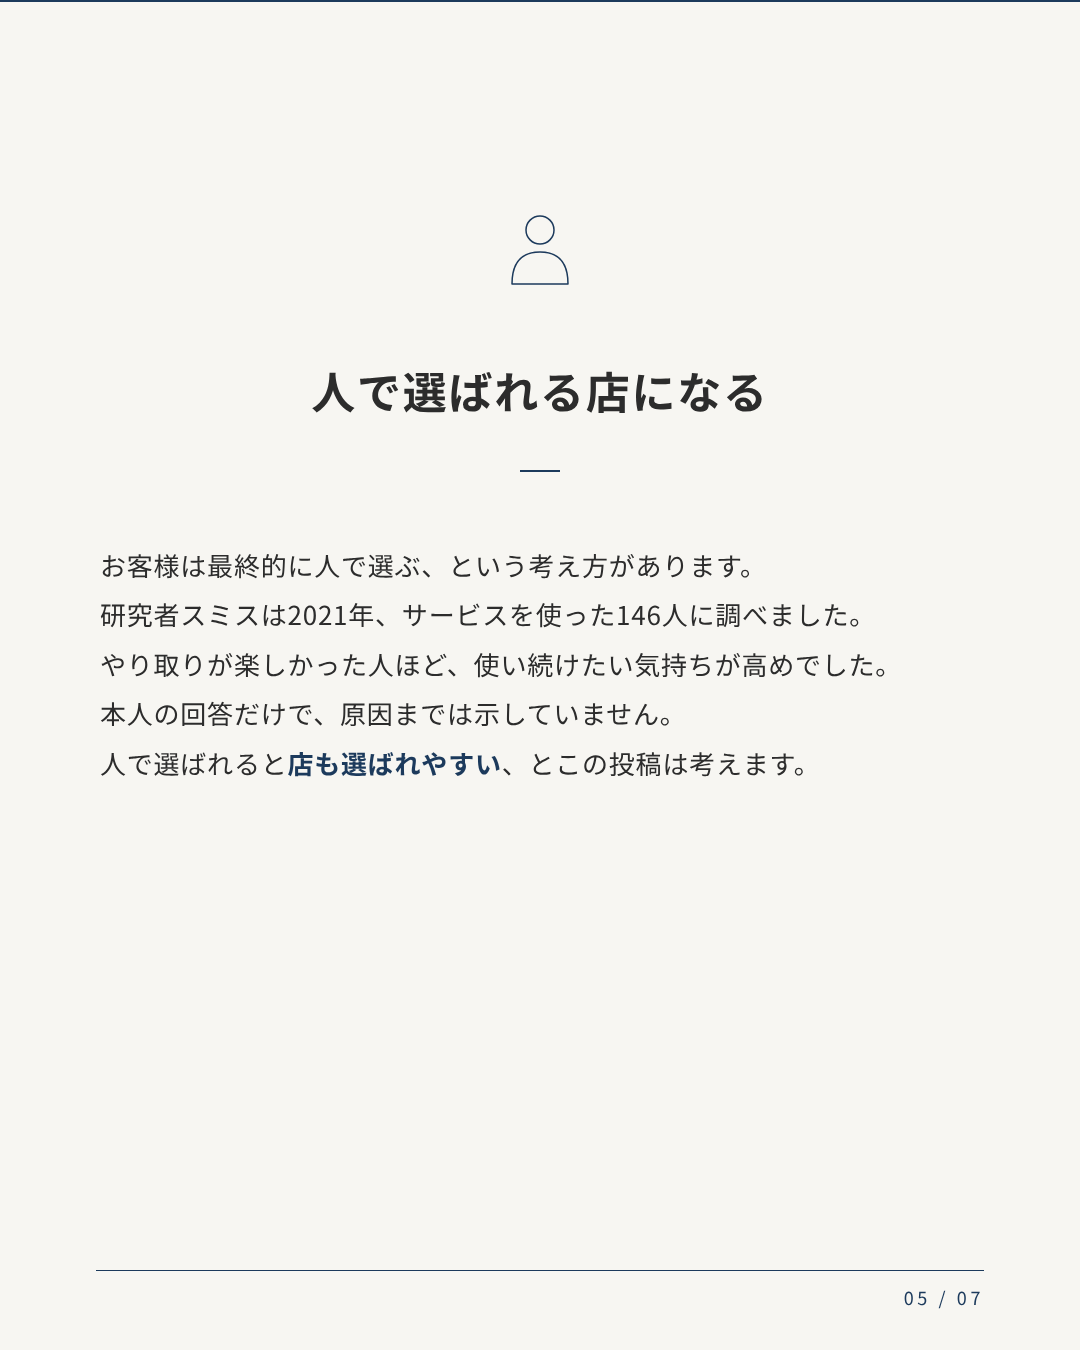
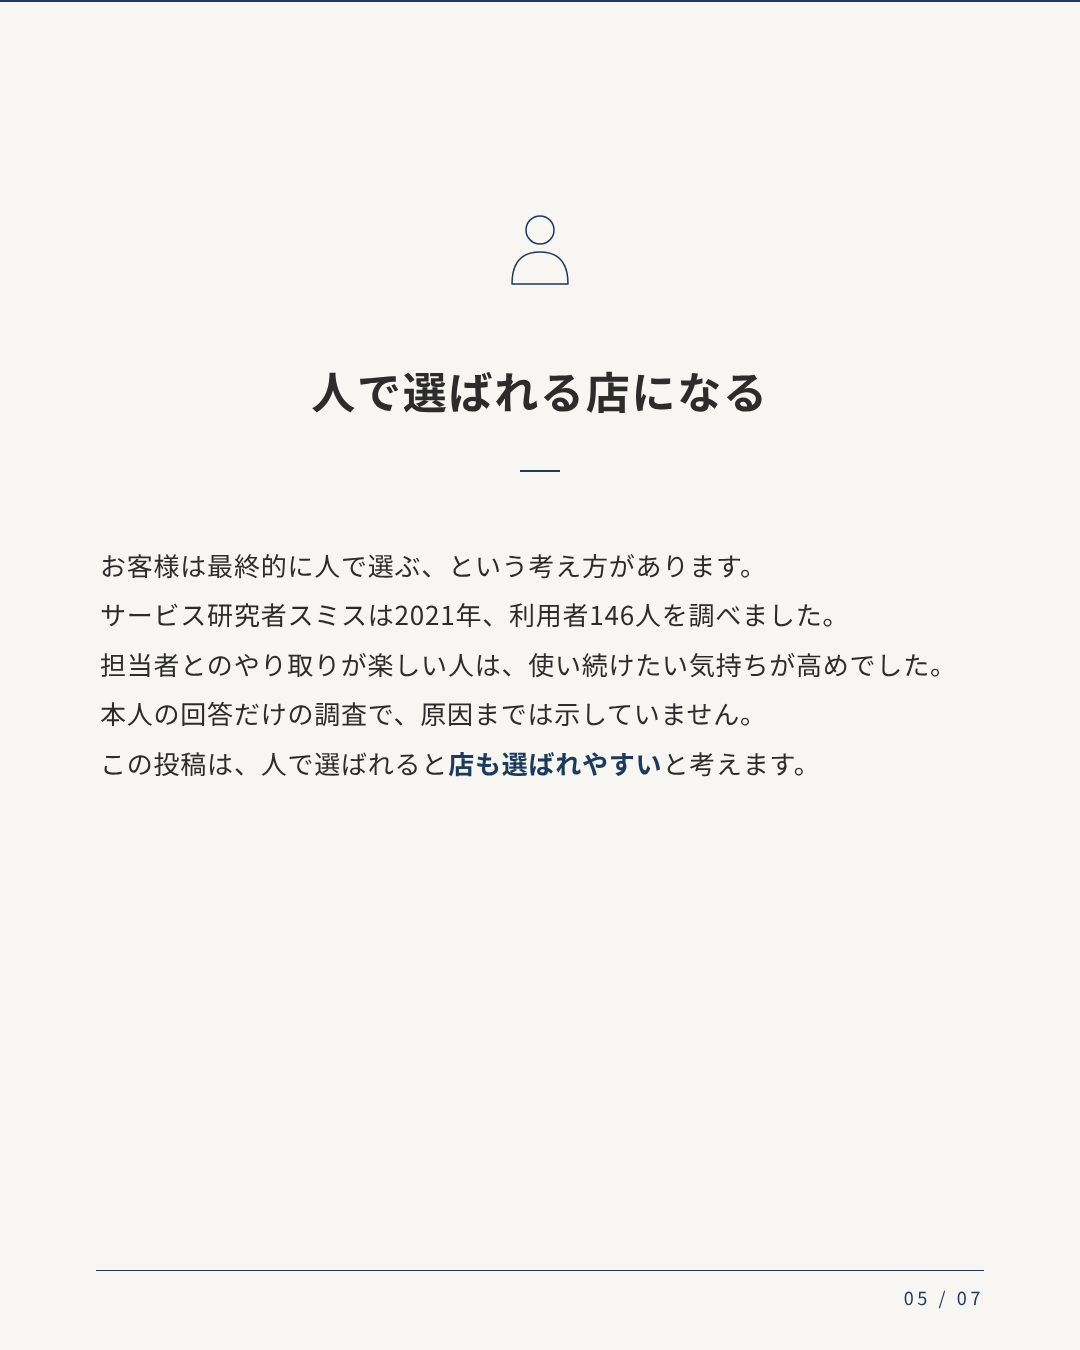
投稿の一覧を更新（12件）

Changed region(s): [[0.0917, 0.4356, 0.825, 0.5911]]

diff --git a/index.html b/index.html
@@ -34,13 +34,13 @@ pre { white-space: pre-wrap; font: inherit; line-height: 1.7; }
 <details><summary>キャプションを見る</summary><pre>淡路島で店舗を営む方へ。
 「また、あの人から買いたい」と思われる店には、どんな考え方があるのでしょうか。
 
-1. 店で買う理由を用意する：理由づくりの中心は、質の高い接客です。
-2. 比べられる段階から抜け出す：比べて選ばれる段階から、選ばれ続ける段階へ進むことを考えます。
+1. 店で買う理由を用意する：理由づくりの一つとして、質の高い接客を提案します。
+2. 比べられる段階から抜け出す：性能や価格で選ぶ段階は浅いとされる研究を紹介し、質の高い接客で比べられにくくする提案です。
 3. 前回買った商品のその後を聞く：前回買った商品を覚え、次の来店でそのようすを聞きます。
 4. 人で選ばれる店になる：お客様は最終的に人で店を選ぶ、という考え方があります。
 5. 期待を超える体験を作る：答えるだけで終わらせず、感動してもらうことを目指します。
 
-「比べられる段階から抜け出す」では研究者オリバー（1999年）の買い続ける気持ちの段階、「人で選ばれる店になる」では研究者スミス（2021年、146人の自己申告の調査）を紹介しています。どちらも店で調べた研究ではなく、研究を店に当てはめる部分はこの投稿の提案です。
+「比べられる段階から抜け出す」では消費者研究者オリバー（1999年）の買い続ける段階、「人で選ばれる店になる」ではサービス研究者スミス（2021年、利用者146人の自己申告の調査）を紹介しています。どちらも店の現場で調べた研究ではなく、研究を店に当てはめる部分はこの投稿の提案です。
 
 今日の一歩は、前回買ってくださったお客様を思い出し、その後のようすを聞く一言を決めることです。
 保存して見返してください。自分の店での考え方や聞き方に迷うときは、DMでご相談ください。
